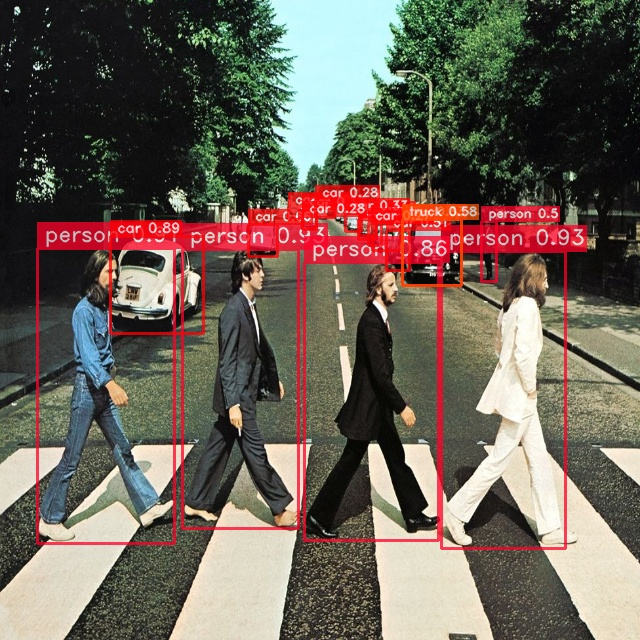
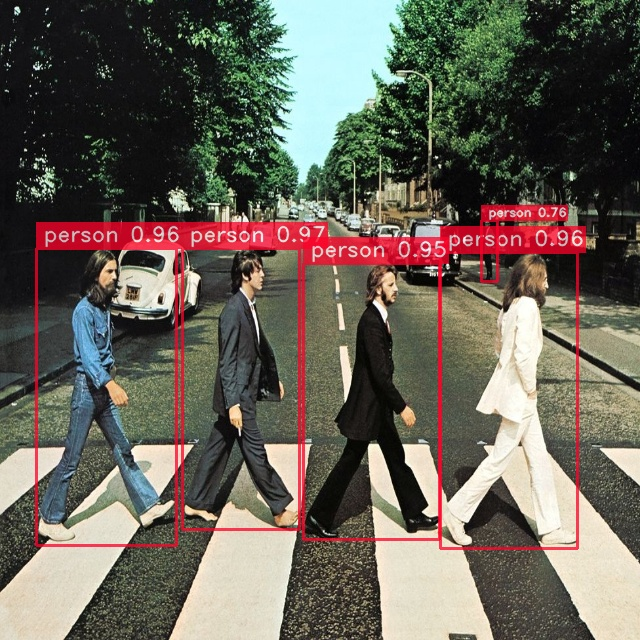
no quantize, conf>0.7

Changed region(s): [[0.0625, 0.2812, 0.9375, 0.875], [0.0312, 0.375, 0.0625, 0.8438], [0.6562, 0.75, 0.7188, 0.875]]

diff --git a/export_onnx.py b/export_onnx.py
@@ -1,14 +1,14 @@
 from super_gradients.common.object_names import Models
 from super_gradients.training import models
-from super_gradients.conversion.conversion_enums import ExportQuantizationMode
 from super_gradients.conversion import DetectionOutputFormatMode
 
 model = models.get(Models.YOLO_NAS_S, pretrained_weights="coco")
 
-export_result = model.export("yolo_nas_s.onnx")
-
 export_result = model.export(
-    "yolo_nas_s_int8.onnx",
+    "yolo_nas_s.onnx",
     output_predictions_format=DetectionOutputFormatMode.FLAT_FORMAT,
-    quantization_mode=ExportQuantizationMode.INT8 # or ExportQuantizationMode.FP16
+    confidence_threshold = 0.6,
+    nms_threshold = 0.5,
+    num_pre_nms_predictions = 100,
+    max_predictions_per_image = 5
 )

diff --git a/demo.py b/demo.py
@@ -31,7 +31,7 @@ image = cv2.imread("beatles-abbeyroad.jpg")
 image = cv2.resize(image, (640, 640))
 image_bchw = np.transpose(np.expand_dims(image, 0), (0, 3, 1, 2))
 
-session = onnxruntime.InferenceSession("yolo_nas_s_int8.onnx", providers=["CPUExecutionProvider"])
+session = onnxruntime.InferenceSession("yolo_nas_s.onnx", providers=["CPUExecutionProvider"])
 inputs = [o.name for o in session.get_inputs()]
 outputs = [o.name for o in session.get_outputs()]
 result = session.run(outputs, {inputs[0]: image_bchw})
